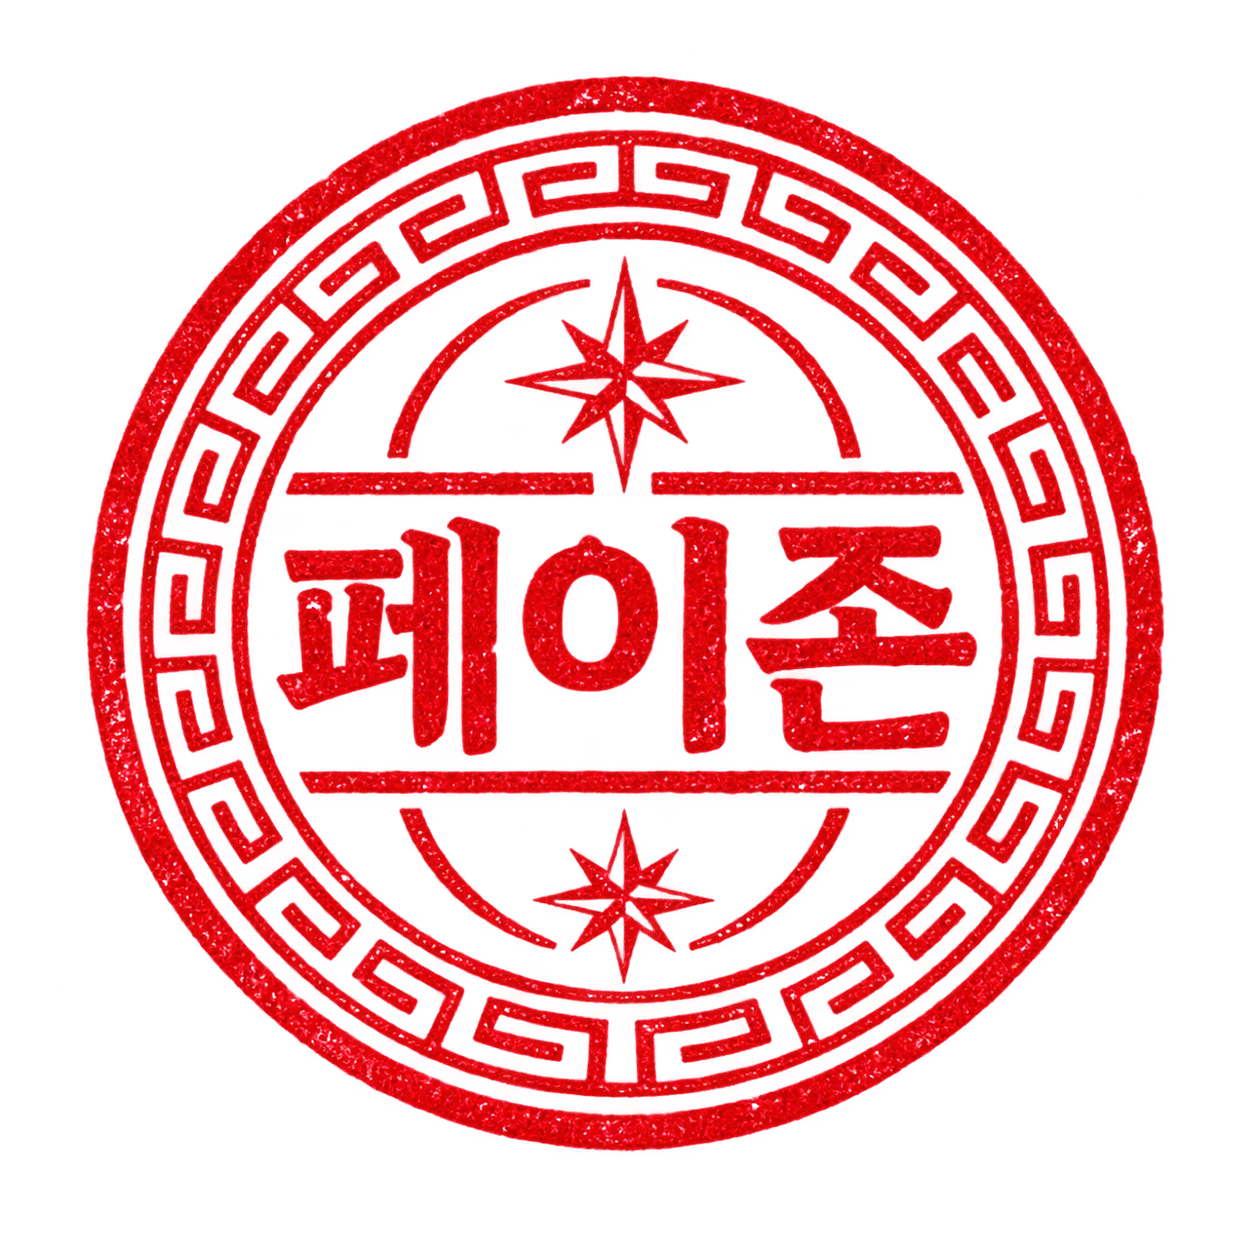
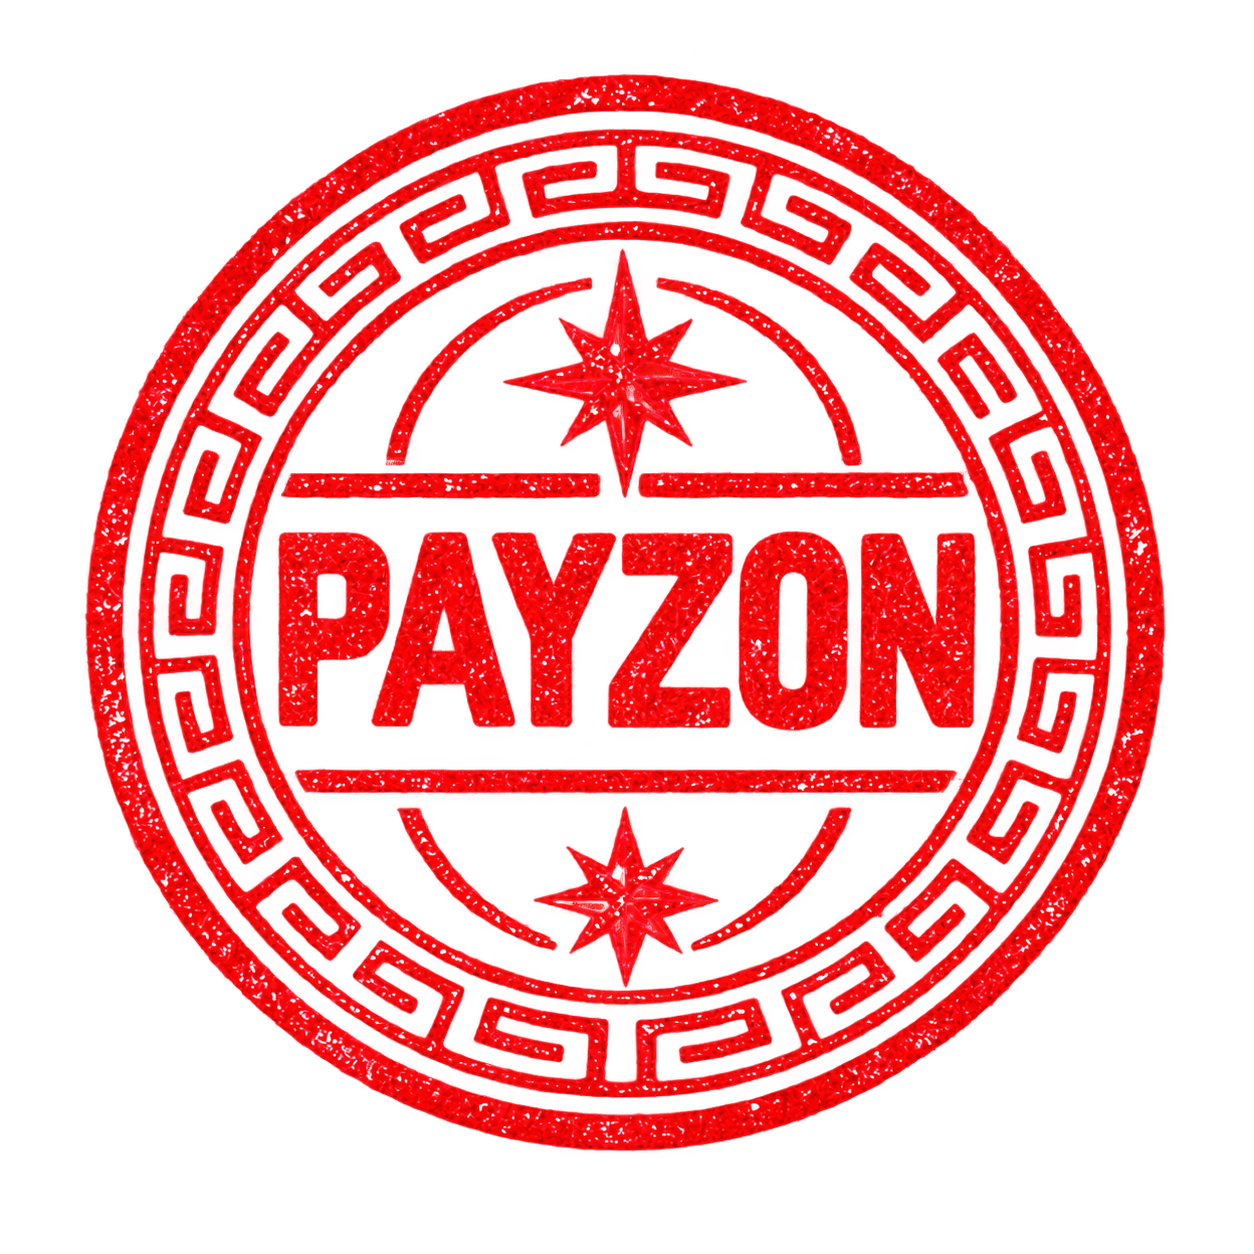
S일본어 UI 현지화 및 급여항목 기본 데이터 처리 개선
- settings, employees, payroll, payroll-stats, retirement 화면의 잔여 한글 문구를 일본어로 정리
- DB 내부 한글 코드값을 일본어 표시값으로 변환하는 JSP 태그 적용
- 급여대장과 통계 화면의 소득유형, 고용형태, 지급·공제항목 표시 현지화
- 금액 단위를 일본 엔(円)으로 통일
- HOME 화면 날짜를 일본어 형식으로 표시하도록 변경
- 사원등록 보험·병역 및 퇴직관리 근속기간 표시를 일본어로 수정
- 증명서 발급 및 발급대장 화면 레이아웃과 일본어 표시 오류 수정
- 근태 및 일용직 조회 화면의 일본어 렌더링 오류와 버튼 너비 보완
- PAYZON 도장 이미지를 영문 로고 기반 이미지로 교체
- 필수 지급·공제항목을 애플리케이션 시작 시 자동 생성하도록 초기화 처리
- 필수 지급·공제항목의 수정 및 삭제를 차단하고 일본어 안내 팝업 적용
- 급여항목 편집 영역에서 내부 한글 항목명을 일본어로 표시
- 비과세 법조문에 남아 있던 한글 연결 문구를 일본어로 변경
- 일본 회사 환경에 맞춘 사원, 부서, 직위, 급여 및 퇴직 더미 데이터 구성

Changed region(s): [[0.0622, 0.0622, 0.933, 0.933], [0.622, 0.6842, 0.6531, 0.7153], [0.3421, 0.6842, 0.3732, 0.7153]]

diff --git a/src/main/java/erp/settings/service/PayItemSettingService.java b/src/main/java/erp/settings/service/PayItemSettingService.java
@@ -2,7 +2,10 @@ package erp.settings.service;
 
 import java.sql.Connection;
 import java.sql.SQLException;
+import java.util.Arrays;
+import java.util.HashSet;
 import java.util.List;
+import java.util.Set;
 
 import erp.settings.dao.DeductItemDao;
 import erp.settings.dao.PayItemDao;
@@ -15,6 +18,11 @@ import jdbc.JdbcUtil;
 import jdbc.connection.ConnectionProvider;
 
 public class PayItemSettingService {
+	private static final Set<String> REQUIRED_PAY_ITEM_NAMES =
+			new HashSet<>(Arrays.asList("기본급"));
+	private static final Set<String> REQUIRED_DEDUCT_ITEM_NAMES =
+			new HashSet<>(Arrays.asList("국민연금", "건강보험", "장기요양보험",
+					"노인장기요양보험", "고용보험", "소득세", "지방소득세"));
 
 	// 싱글톤 인스턴스 생성
 	private static PayItemSettingService instance = new PayItemSettingService();
@@ -32,6 +40,76 @@ public class PayItemSettingService {
 	private PayItemDao payItemDao = PayItemDao.getInstance();
 	private DeductItemDao deductItemDao = DeductItemDao.getInstance();
 	private TaxFreeItemDao taxFreeItemDao = TaxFreeItemDao.getInstance();
+
+	/**
+	 * 서버 시작 시 급여 계산에 필요한 기준 항목이 없을 때만 생성한다.
+	 */
+	public void initializeRequiredItems() {
+		Connection conn = null;
+		try {
+			conn = ConnectionProvider.getConnection();
+			conn.setAutoCommit(false);
+
+			Set<String> payNames = new HashSet<>();
+			for (PayItem item : payItemDao.selectAll(conn)) {
+				payNames.add(item.getPayName());
+			}
+			if (!payNames.contains("기본급")) {
+				payItemDao.insert(conn, createRequiredPayItem());
+			}
+
+			Set<String> deductNames = new HashSet<>();
+			for (DeductItem item : deductItemDao.selectAll(conn)) {
+				deductNames.add(item.getDeductName());
+			}
+			for (DeductItem item : createRequiredDeductItems()) {
+				if (!deductNames.contains(item.getDeductName())) {
+					deductItemDao.insert(conn, item);
+				}
+			}
+
+			conn.commit();
+		} catch (SQLException e) {
+			JdbcUtil.rollback(conn);
+			throw new RuntimeException("필수 급여항목 초기화 중 오류 발생", e);
+		} catch (RuntimeException e) {
+			JdbcUtil.rollback(conn);
+			throw e;
+		} finally {
+			JdbcUtil.close(conn);
+		}
+	}
+
+	private PayItem createRequiredPayItem() {
+		PayItem item = new PayItem();
+		item.setPayName("기본급");
+		item.setTaxType("전체과세");
+		item.setTaxFreeLimit(0L);
+		item.setCalcMethod("사원 기본급");
+		item.setRoundUnit(10);
+		item.setUseYn("Y");
+		return item;
+	}
+
+	private List<DeductItem> createRequiredDeductItems() {
+		return Arrays.asList(
+				createRequiredDeductItem("국민연금", "기준소득월액 × 4.5%", "사원부담분"),
+				createRequiredDeductItem("건강보험", "보수월액 × 3.545%", "사원부담분"),
+				createRequiredDeductItem("장기요양보험", "건강보험료 × 장기요양보험요율", "사원부담분"),
+				createRequiredDeductItem("고용보험", "보수월액 × 0.9%", "사원부담분"),
+				createRequiredDeductItem("소득세", "근로소득 간이세액표", "급여소득세"),
+				createRequiredDeductItem("지방소득세", "소득세 × 10%", "지방소득세"));
+	}
+
+	private DeductItem createRequiredDeductItem(String name, String calcMethod, String note) {
+		DeductItem item = new DeductItem();
+		item.setDeductName(name);
+		item.setCalcMethod(calcMethod);
+		item.setRoundUnit(10);
+		item.setNote(note);
+		item.setUseYn("Y");
+		return item;
+	}
 
 	// ==========================================
 	// 1. 지급항목(PAY_ITEM) 관련 로직
@@ -72,6 +150,12 @@ public class PayItemSettingService {
 		}
 	}
 
+	// 삭제 확인창을 열기 전에 필수 지급항목인지 확인한다.
+	public boolean isRequiredPayItem(int payItemId) {
+		PayItem item = getPayItem(payItemId);
+		return item != null && REQUIRED_PAY_ITEM_NAMES.contains(item.getPayName());
+	}
+
 	/**
 	 * 지급항목 삽입, 수정, 삭제 트랜잭션 분기 및 무결성 검증 처리
 	 *
@@ -83,6 +167,14 @@ public class PayItemSettingService {
 		try {
 			conn = ConnectionProvider.getConnection();
 			conn.setAutoCommit(false); // 수동 커밋 모드 전환 처리
+
+			// 기본급은 급여 자동 산정에 필요한 기준 항목이므로 이름 변경과 삭제를 막는다.
+			if ("update".equals(action) || "delete".equals(action)) {
+				PayItem savedItem = payItemDao.selectById(conn, item.getPayItemId());
+				if (savedItem != null && REQUIRED_PAY_ITEM_NAMES.contains(savedItem.getPayName())) {
+					throw new IllegalArgumentException("必須支給項目は修正または削除できません。");
+				}
+			}
 
 			// 과세 구분에 따라 비과세 코드와 법정 한도액을 정규화한다.
 			if ("전체과세".equals(item.getTaxType())) {
@@ -185,6 +277,12 @@ public class PayItemSettingService {
 		}
 	}
 
+	// 삭제 확인창을 열기 전에 필수 공제항목인지 확인한다.
+	public boolean isRequiredDeductItem(int deductItemId) {
+		DeductItem item = getDeductItem(deductItemId);
+		return item != null && REQUIRED_DEDUCT_ITEM_NAMES.contains(item.getDeductName());
+	}
+
 	/**
 	 * 공제항목 삽입, 수정, 삭제 트랜잭션 분기 처리
 	 *
@@ -196,6 +294,14 @@ public class PayItemSettingService {
 		try {
 			conn = ConnectionProvider.getConnection();
 			conn.setAutoCommit(false); // 수동 커밋 모드 전환 처리
+
+			// 법정 공제 항목은 계산 로직이 이름을 기준으로 사용하므로 변경과 삭제를 막는다.
+			if ("update".equals(action) || "delete".equals(action)) {
+				DeductItem savedItem = deductItemDao.selectById(conn, item.getDeductItemId());
+				if (savedItem != null && REQUIRED_DEDUCT_ITEM_NAMES.contains(savedItem.getDeductName())) {
+					throw new IllegalArgumentException("必須控除項目は修正または削除できません。");
+				}
+			}
 
 			if ("insert".equals(action)) {
 				deductItemDao.insert(conn, item);
@@ -209,6 +315,9 @@ public class PayItemSettingService {
 		} catch (SQLException e) {
 			JdbcUtil.rollback(conn);
 			throw new RuntimeException("공제항목 액션 처리 중 오류 발생", e);
+		} catch (RuntimeException e) {
+			JdbcUtil.rollback(conn);
+			throw e;
 		} finally {
 			JdbcUtil.close(conn);
 		}

diff --git a/src/main/java/erp/settings/command/DeductItemHandler.java b/src/main/java/erp/settings/command/DeductItemHandler.java
@@ -25,6 +25,20 @@ public class DeductItemHandler implements CommandHandler {
 		req.setCharacterEncoding("UTF-8");
 		String action = req.getParameter("action");
 		if ("requestDelete".equals(action)) {
+			String deductItemIdValue = req.getParameter("deductItemId");
+			if (deductItemIdValue == null || deductItemIdValue.trim().isEmpty()) {
+				req.getSession().setAttribute("message", "削除する控除項目を選択してください。");
+				req.getSession().setAttribute("messageAnchor", "#deduction-settings");
+				res.sendRedirect(req.getContextPath() + "/settings/pay-item.do#deduction-settings");
+				return null;
+			}
+			int deductItemId = Integer.parseInt(deductItemIdValue);
+			if (payService.isRequiredDeductItem(deductItemId)) {
+				req.getSession().setAttribute("message", "必須控除項目は修正または削除できません。");
+				req.getSession().setAttribute("messageAnchor", "#deduction-settings");
+				res.sendRedirect(req.getContextPath() + "/settings/pay-item.do#deduction-settings");
+				return null;
+			}
 			req.getSession().setAttribute("deleteItemType", "DEDUCT");
 			req.getSession().setAttribute("deleteItemId", req.getParameter("deductItemId"));
 			res.sendRedirect(req.getContextPath() + "/settings/pay-item.do#deduction-settings");
@@ -61,7 +75,9 @@ public class DeductItemHandler implements CommandHandler {
 
 		} catch (Exception e) {
 			e.printStackTrace();
-			req.getSession().setAttribute("message", "오류 발생: " + e.getMessage());
+			String message = e instanceof IllegalArgumentException
+					? e.getMessage() : "エラー: " + e.getMessage();
+			req.getSession().setAttribute("message", message);
 			req.getSession().setAttribute("messageAnchor", "#deduction-settings");
 		}
 

diff --git a/src/main/java/erp/settings/command/PayItemHandler.java b/src/main/java/erp/settings/command/PayItemHandler.java
@@ -90,6 +90,20 @@ public class PayItemHandler implements CommandHandler {
 		req.setCharacterEncoding("UTF-8");
 		String action = req.getParameter("action");
 		if ("requestDelete".equals(action)) {
+			String payItemIdValue = req.getParameter("payItemId");
+			if (payItemIdValue == null || payItemIdValue.trim().isEmpty()) {
+				req.getSession().setAttribute("message", "削除する支給項目を選択してください。");
+				req.getSession().setAttribute("messageAnchor", "#payment-settings");
+				res.sendRedirect(req.getContextPath() + "/settings/pay-item.do#payment-settings");
+				return null;
+			}
+			int payItemId = Integer.parseInt(payItemIdValue);
+			if (payService.isRequiredPayItem(payItemId)) {
+				req.getSession().setAttribute("message", "必須支給項目は修正または削除できません。");
+				req.getSession().setAttribute("messageAnchor", "#payment-settings");
+				res.sendRedirect(req.getContextPath() + "/settings/pay-item.do#payment-settings");
+				return null;
+			}
 			req.getSession().setAttribute("deleteItemType", "PAY");
 			req.getSession().setAttribute("deleteItemId", req.getParameter("payItemId"));
 			res.sendRedirect(req.getContextPath() + "/settings/pay-item.do#payment-settings");
@@ -108,7 +122,9 @@ public class PayItemHandler implements CommandHandler {
 
 		} catch (Exception e) {
 			e.printStackTrace();
-			req.getSession().setAttribute("message", "오류 발생: " + e.getMessage());
+			String message = e instanceof IllegalArgumentException
+					? e.getMessage() : "エラー: " + e.getMessage();
+			req.getSession().setAttribute("message", message);
 			req.getSession().setAttribute("messageAnchor", "#payment-settings");
 		}
 

diff --git a/src/main/java/erp/settings/listener/RequiredPayItemInitListener.java b/src/main/java/erp/settings/listener/RequiredPayItemInitListener.java
@@ -1,0 +1,21 @@
+package erp.settings.listener;
+
+import javax.servlet.ServletContextEvent;
+import javax.servlet.ServletContextListener;
+
+import erp.settings.service.PayItemSettingService;
+
+/**
+ * 웹 애플리케이션 시작 시 필수 지급·공제항목을 보장한다.
+ */
+public class RequiredPayItemInitListener implements ServletContextListener {
+
+	@Override
+	public void contextInitialized(ServletContextEvent sce) {
+		PayItemSettingService.getInstance().initializeRequiredItems();
+	}
+
+	@Override
+	public void contextDestroyed(ServletContextEvent sce) {
+	}
+}

diff --git a/src/main/java/erp/home/command/HomeHandler.java b/src/main/java/erp/home/command/HomeHandler.java
@@ -28,7 +28,7 @@ public class HomeHandler implements CommandHandler {
 		HomeDashboard dashboard = homeService.getDashboard();
 		req.setAttribute("dashboard", dashboard);
 		req.setAttribute("today", today.format(
-				DateTimeFormatter.ofPattern("yyyy년 M월 d일 EEEE", Locale.KOREAN)));
+				DateTimeFormatter.ofPattern("yyyy年M月d日 EEEE", Locale.JAPANESE)));
 		req.setAttribute("currentYear", today.getYear());
 		req.setAttribute("currentMonth", today.getMonthValue());
 		return VIEW;
